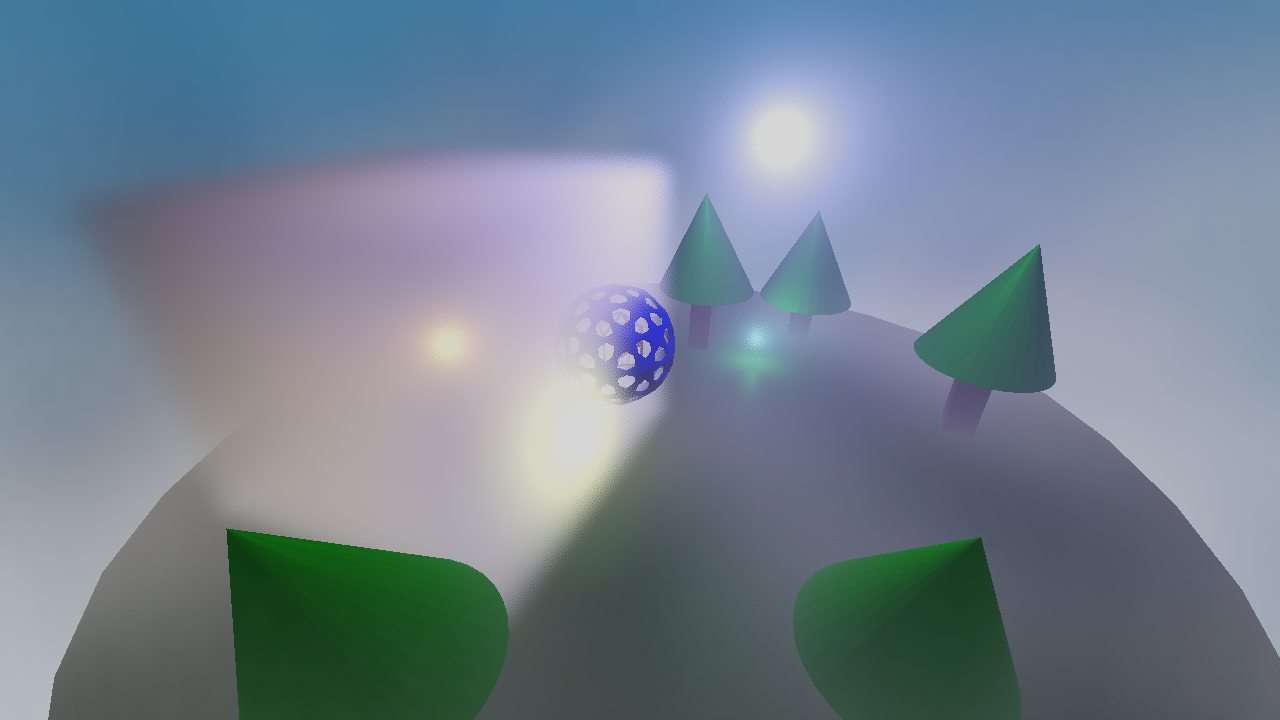
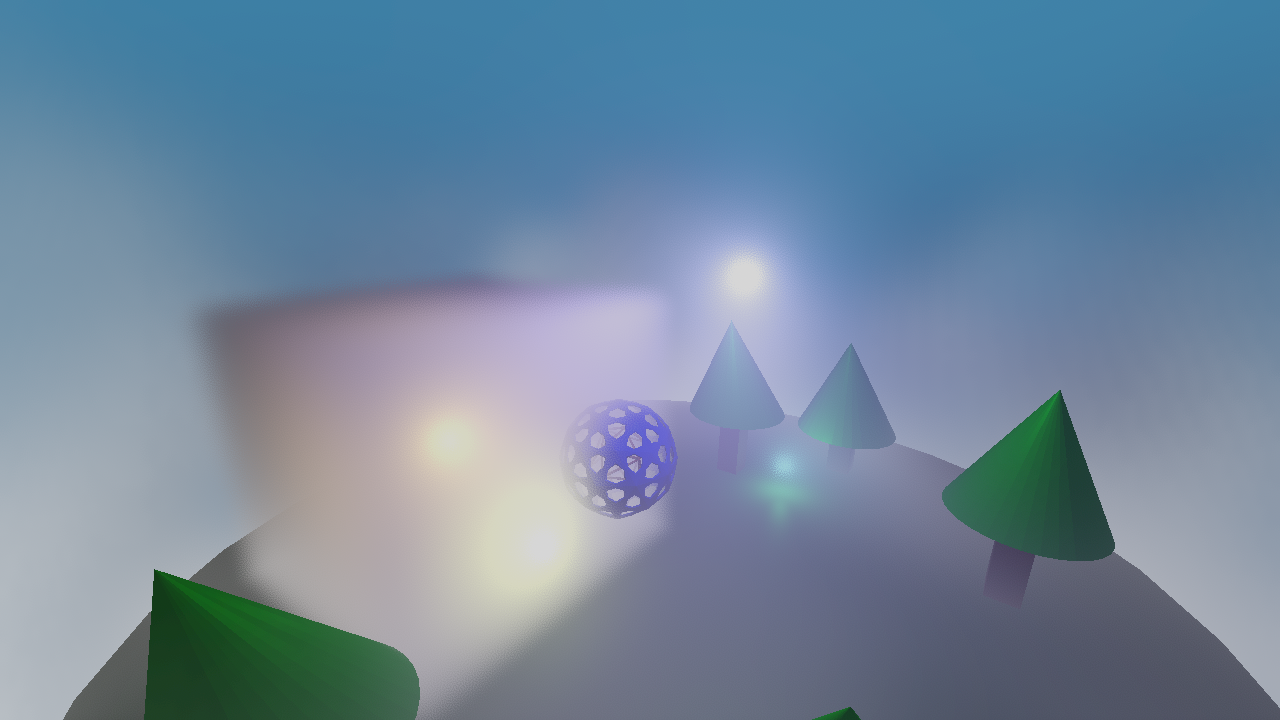
- Reduced fog cube size - Reduced ESM blur - Updated volumetric media - Fixed backwards local light phase function and comments - Raised ESM exponent and reduced volumetric far plane

diff --git a/example/volumetric.cpp b/example/volumetric.cpp
@@ -123,11 +123,11 @@ struct
 
   float nearPlane = 0.3f;
 
-  float esmExponent = 15.0f;
+  float esmExponent = 30.0f;
   size_t esmBlurPasses = 1;
   Fwog::Extent3D esmResolution = { 256, 256 };
 
-  float volumeFarPlane = 60.0f;
+  float volumeFarPlane = 30.0f;
   Fwog::Extent3D volumeExtent = { 160, 90, 256 };
 
   float lightFarPlane = 30.f;
@@ -901,6 +901,7 @@ void RenderScene(std::optional<std::string_view> fileName, float scale, bool bin
     }
 
     {
+      Fwog::ScopedDebugMarker marker("Postprocessing");
       Fwog::BeginCompute();
       Fwog::Cmd::BindComputePipeline(postprocessingPipeline);
       Fwog::Cmd::BindSampledImage(0, *shadingTexView, *nearestSampler);
